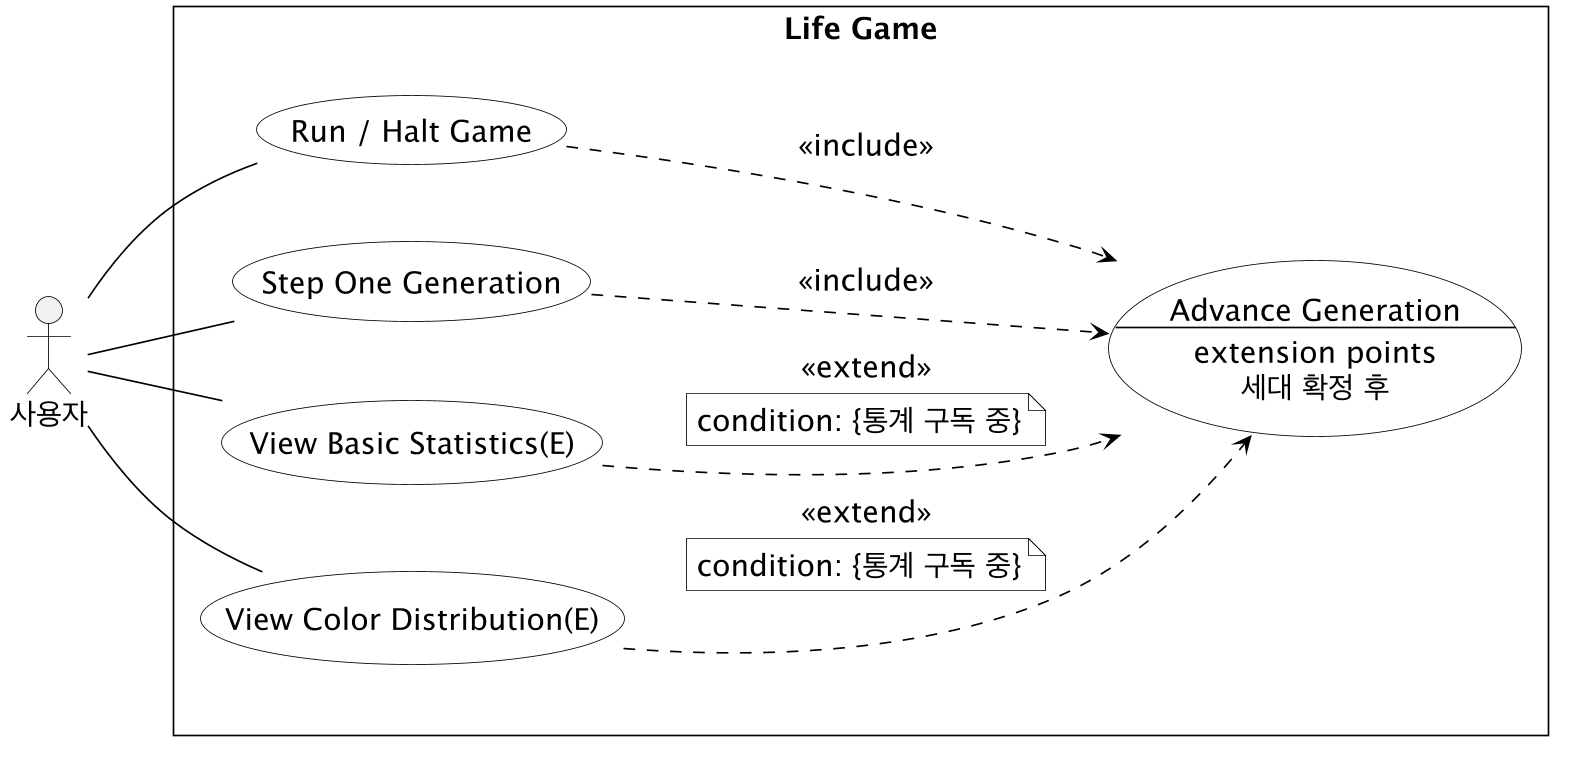
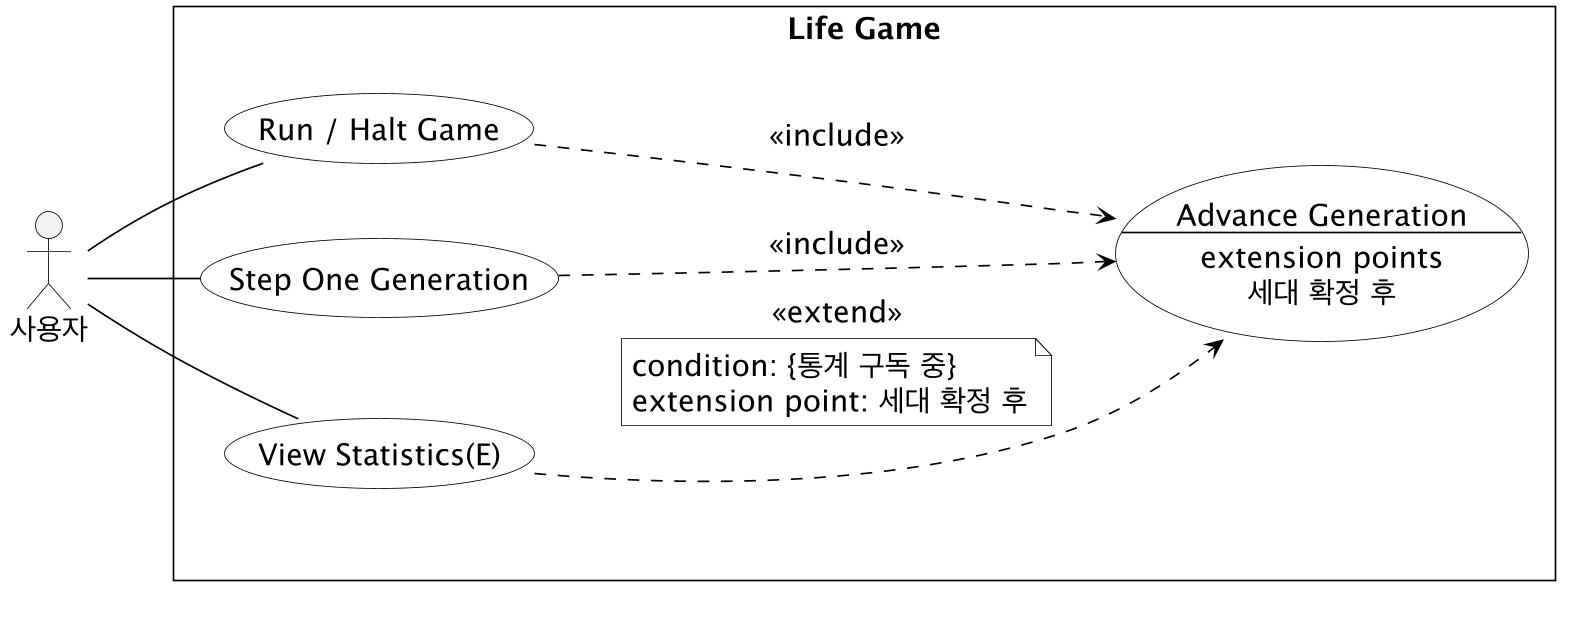
docs: 통계 유스케이스 통일 및 상태 다이어그램 추가
- 전체 유스케이스에 맞춰 View Statistics(E)로 통일
- 통계 결과의 상태 다이어그램 원본과 PNG 추가
- 상태 전이·유지 조건과 관련 문서 설명 정리

diff --git a/docs/statistics/diagrams/README.md b/docs/statistics/diagrams/README.md
@@ -7,16 +7,21 @@
 | 유스케이스 | [statistics-use-cases.puml](statistics-use-cases.puml) | [statistics-use-cases.png](statistics-use-cases.png) |
 | 클래스 | [statistics-classes.puml](statistics-classes.puml) | [statistics-classes.png](statistics-classes.png) |
 | 시퀀스 | [statistics-sequence.mmd](statistics-sequence.mmd) | [statistics-sequence.png](statistics-sequence.png) |
+| 상태 | [statistics-state.puml](statistics-state.puml) | [statistics-state.png](statistics-state.png) |
 
-## 유스케이스·클래스 PNG 다시 생성
+유스케이스 그림은 전체 그림에서 통계 조회와 세대 진행의 관계를 발췌한다. 통계 조회 이름은 `View Statistics(E)`로 통일하고, 기본 통계와 색상 분포는 본문의 조회 항목으로 설명한다.
+
+상태 그림은 Statistics의 최근 집계 결과를 기준으로 탄생·사망 표시 가능 여부의 전이를 나타낸다. 별도의 상태 클래스가 아니라 `currentSummary`와 `hasGenerationDelta` 값을 기준으로 구분한다.
+
+## 유스케이스·클래스·상태 PNG 다시 생성
 
 PlantUML 1.2026.10과 Java 21 이상을 사용한다. 다이어그램 렌더링용 Java 버전이며, 프로젝트의 Java toolchain 17 설정은 그대로 둔다. 실행 파일을 준비한 뒤 저장소 루트에서 다음 명령을 실행한다. `/path/to/plantuml-1.2026.10.jar`는 실제 파일 위치로 바꾼다.
 
 ```bash
-java -Djava.awt.headless=true -jar /path/to/plantuml-1.2026.10.jar -charset UTF-8 -tpng docs/statistics/diagrams/statistics-use-cases.puml docs/statistics/diagrams/statistics-classes.puml
+java -Djava.awt.headless=true -jar /path/to/plantuml-1.2026.10.jar -charset UTF-8 -tpng docs/statistics/diagrams/statistics-use-cases.puml docs/statistics/diagrams/statistics-classes.puml docs/statistics/diagrams/statistics-state.puml
 ```
 
-유스케이스와 클래스는 팀 UML 통일안에 따라 흑백과 표준 관계 표기를 사용한다. 유스케이스는 Smetana 배치 엔진을, 클래스는 ELK 배치 엔진을 사용한다.
+유스케이스와 클래스는 팀 UML 통일안에 따라 흑백과 표준 관계 표기를 사용한다. 유스케이스와 상태는 Smetana 배치 엔진을, 클래스는 ELK 배치 엔진을 사용한다.
 
 ## 시퀀스 PNG 다시 생성
 
